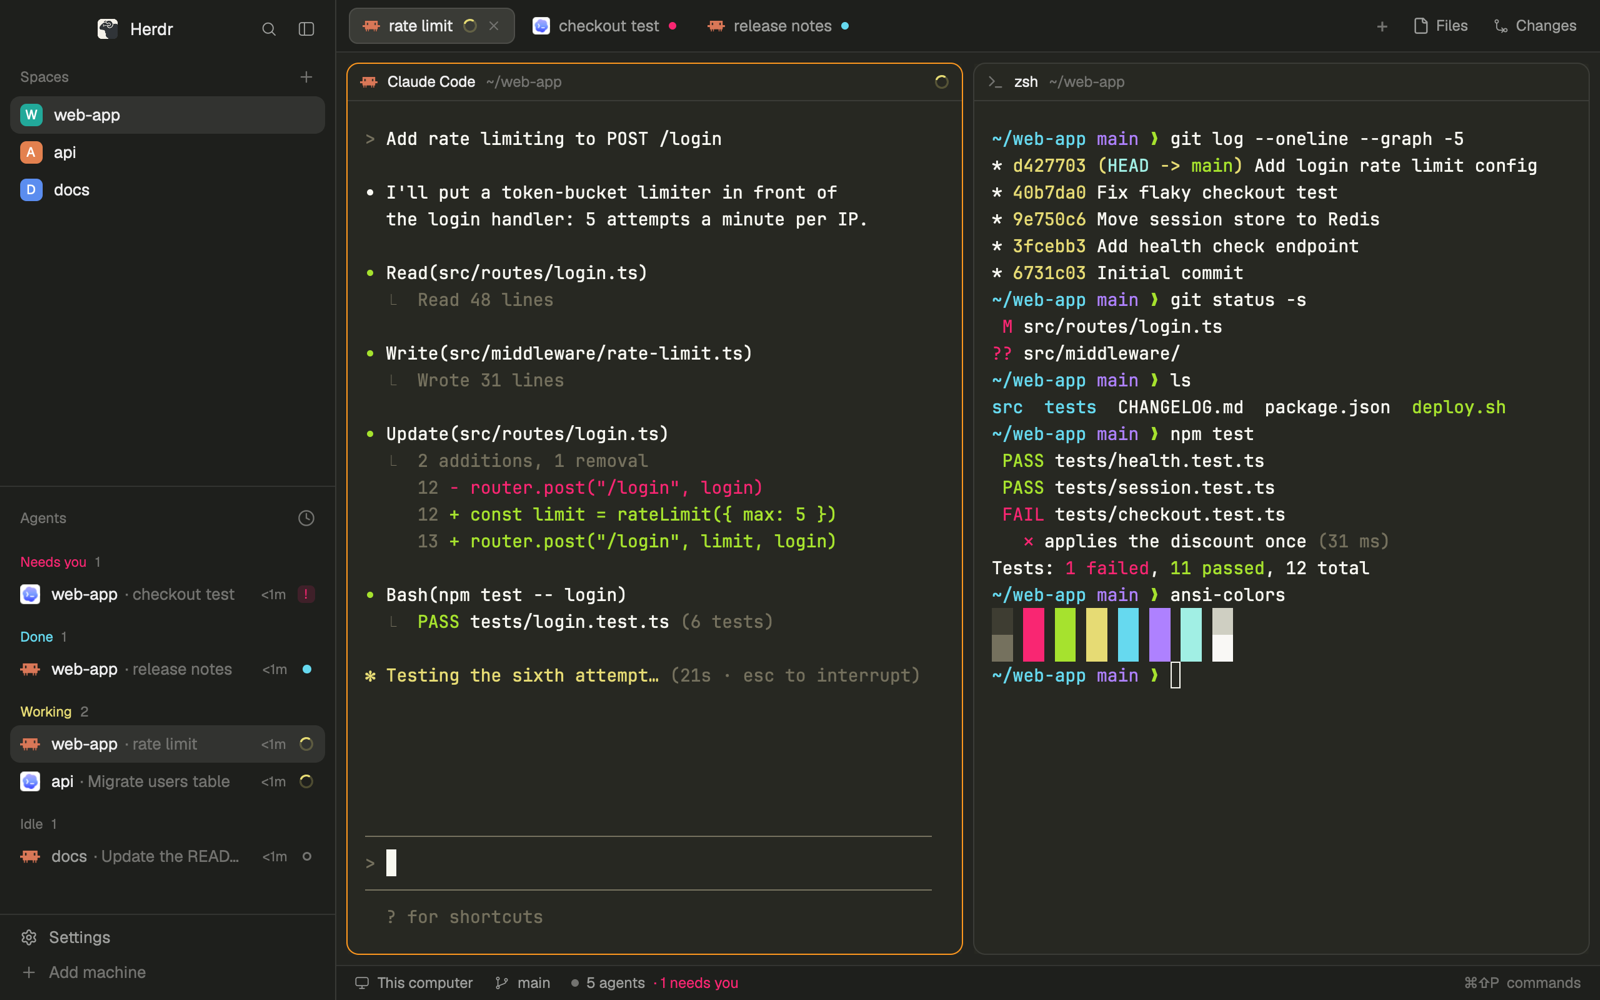
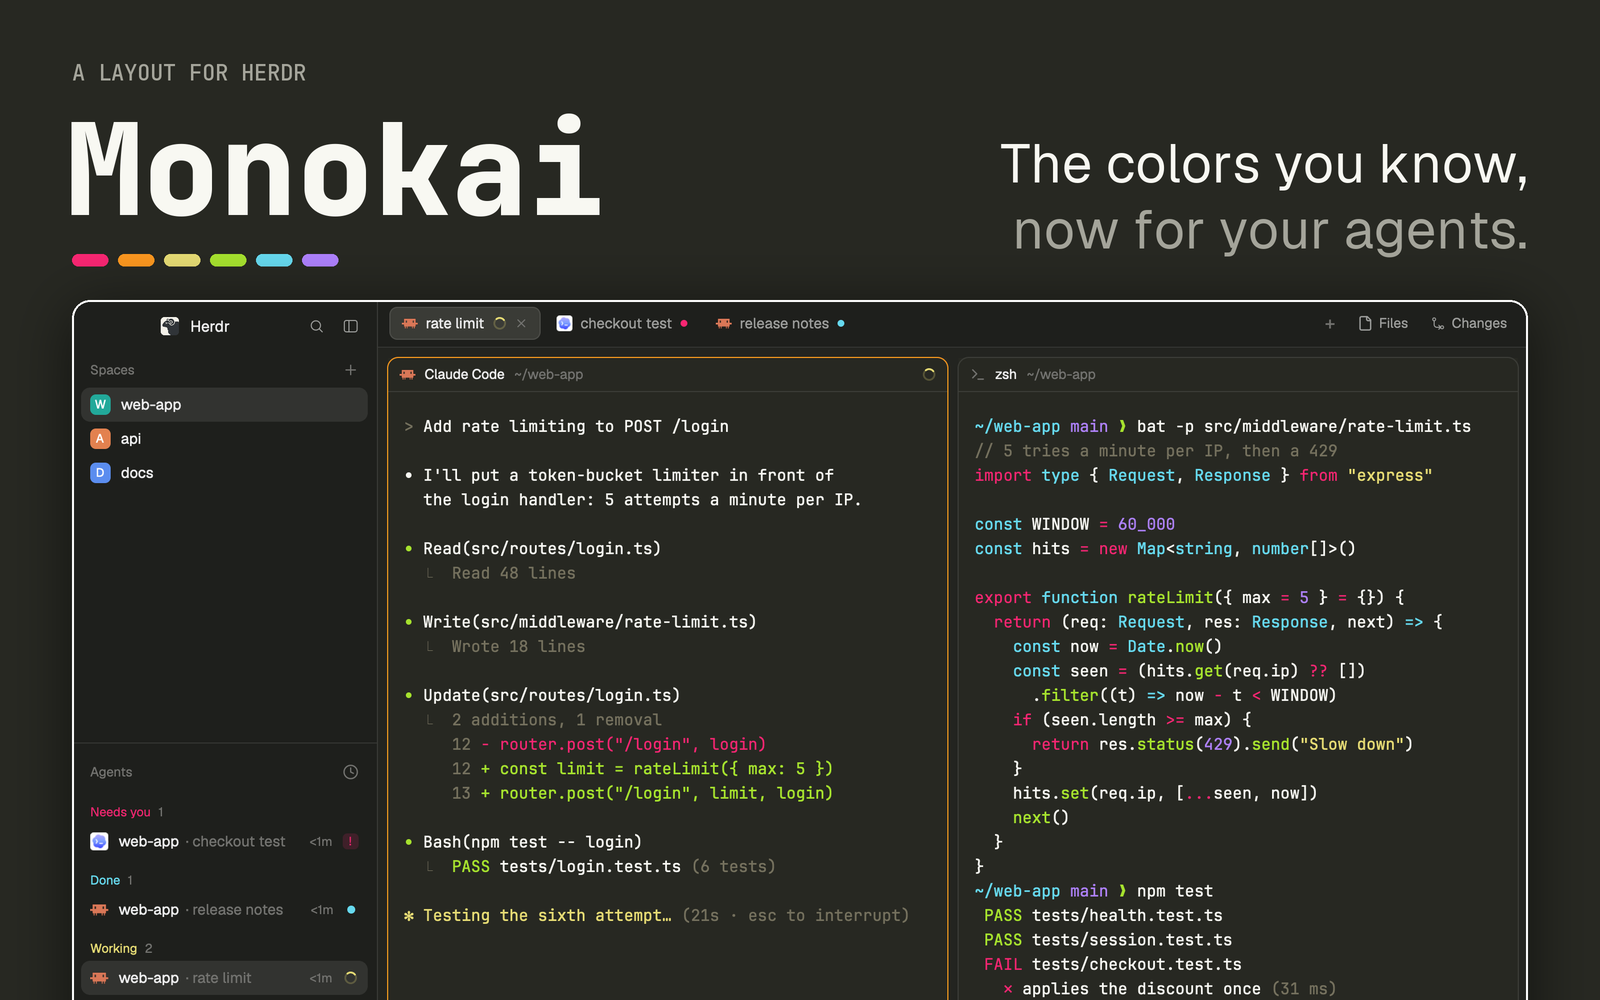
A gallery cover and a description that sells it
The herdr.dev card shows only the picture, so preview.png is now a poster:
"Monokai" with its six colors and a tagline over the demo window, on
#272822 so it stands out among the dark screenshots. The demo's shell
pane shows a file highlighted the Monokai way instead of git log.
scripts/cover.py frames the screenshot; demo.sh shot runs it.

The gallery's description is RECIPE.md's first paragraph. It now leads
with Sublime Text and VS Code, the agent state colors and "no code",
instead of hex values, and stays under the ~500 characters the gallery
shows.

demo.sh now starts from a clean core: a second run used to bring back the
first run's spaces next to the new ones.

diff --git a/scripts/cover.py b/scripts/cover.py
@@ -1,0 +1,76 @@
+"""Compose preview.png: a title band over a real screenshot of the layout.
+
+    uv run --with pillow python scripts/cover.py <shot.png> <out.png> <fonts dir>
+
+shot.png is `herdr-app shot` of the demo window; scripts/demo.sh shot runs this for you.
+out.png is 1600x1000, the 16:10 of a herdr.dev gallery card, so the card shows all of it.
+The fonts dir holds JetBrainsMono-Variable.ttf and Geist.ttf, the fonts Herdr uses.
+"""
+import sys
+from PIL import Image, ImageDraw, ImageFilter, ImageFont
+
+shot_path, out_path, fonts = sys.argv[1], sys.argv[2], sys.argv[3]
+W, H = 1600, 1000
+S = 2  # draw at 2x, scale down at the end for smooth edges
+
+BG = "#272822"       # Monokai background
+FG = "#f8f8f2"       # terminal text
+MUTE = "#a5a59b"
+COLORS = ["#f92672", "#fd971f", "#e6db74", "#a6e22e", "#66d9ef", "#ae81ff"]
+
+
+def mono(size, weight):
+    f = ImageFont.truetype(f"{fonts}/JetBrainsMono-Variable.ttf", size * S)
+    f.set_variation_by_axes([weight])
+    return f
+
+
+def sans(size):
+    return ImageFont.truetype(f"{fonts}/Geist.ttf", size * S)
+
+
+img = Image.new("RGB", (W * S, H * S), BG)
+d = ImageDraw.Draw(img)
+
+# Title band.
+x0, top = 72, 58
+d.text((x0 * S, top * S), "A LAYOUT FOR HERDR", font=mono(22, 600), fill=MUTE)
+d.text((x0 * S - 6 * S, (top + 26) * S), "Monokai", font=mono(128, 800), fill=FG)
+# Six color chips under the word, in Monokai's order.
+cy = top + 196
+for i, c in enumerate(COLORS):
+    cx = x0 + i * 46
+    d.rounded_rectangle((cx * S, cy * S, (cx + 36) * S, (cy + 12) * S), radius=6 * S, fill=c)
+
+# Tagline on the right, aligned to the right edge.
+lines = [("The colors you know,", FG), ("now for your agents.", MUTE)]
+rx = W - 72
+ty = top + 70
+for text, col in lines:
+    f = sans(54)
+    w = d.textlength(text, font=f) / S
+    d.text(((rx - w) * S, ty * S), text, font=f, fill=col)
+    ty += 66
+
+# The screenshot: a card with rounded corners and a soft shadow, cut by the bottom edge.
+shot = Image.open(shot_path).convert("RGB")
+sw = W - 2 * 72
+sh = round(shot.height * sw / shot.width)
+shot = shot.resize((sw * S, sh * S), Image.LANCZOS)
+sx, sy = 72, 300
+radius = 18 * S
+
+shadow = Image.new("L", img.size, 0)
+ImageDraw.Draw(shadow).rounded_rectangle(
+    (sx * S, (sy + 10) * S, (sx + sw) * S, (sy + sh + 10) * S), radius=radius, fill=200)
+shadow = shadow.filter(ImageFilter.GaussianBlur(28 * S))
+img.paste(Image.new("RGB", img.size, "#0b0c0a"), (0, 0), shadow)
+
+mask = Image.new("L", shot.size, 0)
+ImageDraw.Draw(mask).rounded_rectangle((0, 0, shot.width - 1, shot.height - 1), radius=radius, fill=255)
+img.paste(shot, (sx * S, sy * S), mask)
+ImageDraw.Draw(img).rounded_rectangle(
+    (sx * S, sy * S, (sx + sw) * S - 1, (sy + sh) * S - 1), radius=radius, outline="#ffffff14", width=2 * S)
+
+img.resize((W, H), Image.LANCZOS).save(out_path, optimize=True)
+print(f"Saved {out_path}")

diff --git a/README.md b/README.md
@@ -1,6 +1,6 @@
 # Monokai for Herdr
 
-The original Monokai colors for the [Herdr](https://herdr.dev) app. Olive-black panels, terminals on `#272822` with Monokai's pink, green, yellow, cyan and purple, and an orange ring on the pane you're typing in. It's Herdr's own window, unchanged: spaces and agents on the left, tabs on top, panes as cards. Only the colors are new.
+The classic Monokai from Sublime Text and VS Code, across the whole [Herdr](https://herdr.dev) window: sidebar, tabs and every terminal. Agents show their state in Monokai's own colors (yellow working, pink needs you, cyan done), and an orange ring marks the pane you're typing in. It's Herdr's own window, unchanged: spaces and agents on the left, tabs on top, panes as cards. Only the colors are new.
 
 ![Monokai for Herdr](preview.png)
 
@@ -46,11 +46,11 @@ Your spaces, tabs and terminals live in herdr-core, not in the layout, so nothin
 
 ```sh
 scripts/demo.sh          # a second Herdr window with this layout and demo content
-scripts/demo.sh shot     # save preview.png from it
+scripts/demo.sh shot     # save preview.png from it (needs uv)
 scripts/demo.sh stop     # quit it and stop its core
 ```
 
-The demo has its own Herdr home, its own herdr-core session and its own `HOME`, so it can't see or change your spaces, terminals or settings. It opens three example projects with agents in every state. The agents are small scripts that print text and report a status; no real agent runs. The picture above is this demo.
+The demo has its own Herdr home, its own herdr-core session and its own `HOME`, so it can't see or change your spaces, terminals or settings. It opens three example projects with agents in every state. The agents are small scripts that print text and report a status; no real agent runs. The picture above is this demo, framed with a title by `scripts/cover.py`.
 
 ## The colors
 
@@ -77,6 +77,7 @@ A few choices made for a terminal app with agents:
 | `RECIPE.md` | how to rebuild it from scratch, with every color and where it goes |
 | `preview.png` | the picture for this README and the Herdr gallery |
 | `scripts/demo.sh` | the demo window above; `demo-agent.sh` and `demo-shell.sh` fill its panes |
+| `scripts/cover.py` | frames the demo's screenshot into `preview.png` |
 
 ## Credits
 

diff --git a/RECIPE.md b/RECIPE.md
@@ -1,6 +1,6 @@
 # Monokai for Herdr
 
-Herdr's own window in the original Monokai colors: olive-black panels, terminals on `#272822` with Monokai's pink, green, yellow, cyan and purple, and an orange ring on the pane you're typing in. Nothing moves or changes place: spaces and agents on the left, tabs on top, panes as cards, a status bar. The `monokai` theme also shows up in Settings → Look, so you can use it with any other layout.
+The classic Monokai from Sublime Text and VS Code, across the whole Herdr window: sidebar, tabs and every terminal. Agents show their state in Monokai's own colors (yellow working, pink needs you, cyan done), and an orange ring marks the pane you're typing in. Normal ANSI colors are the vivid ones, so Claude Code and Codex output doesn't turn grey. Just colors: no mods, no code, nothing runs. Want only the palette? Pick monokai in Settings → Look, in any layout.
 
 ![Monokai for Herdr](preview.png)
 
